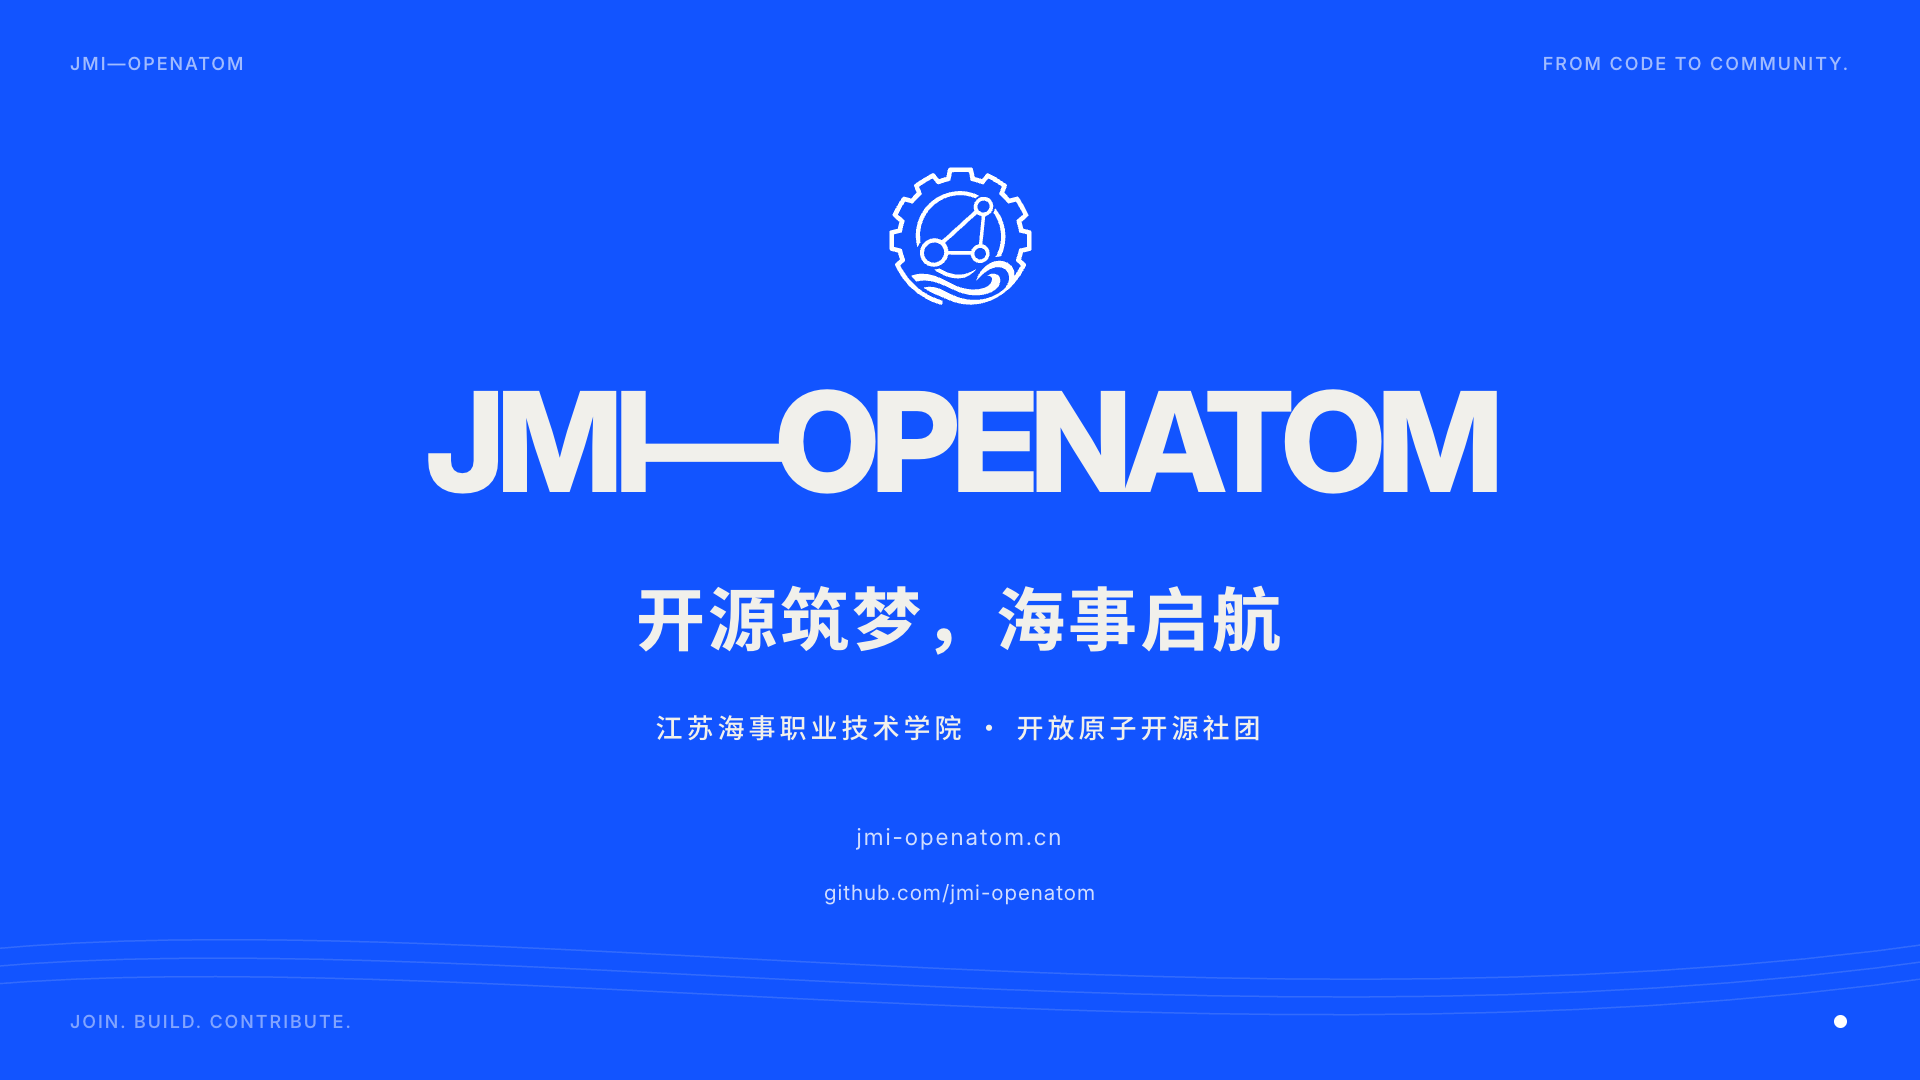
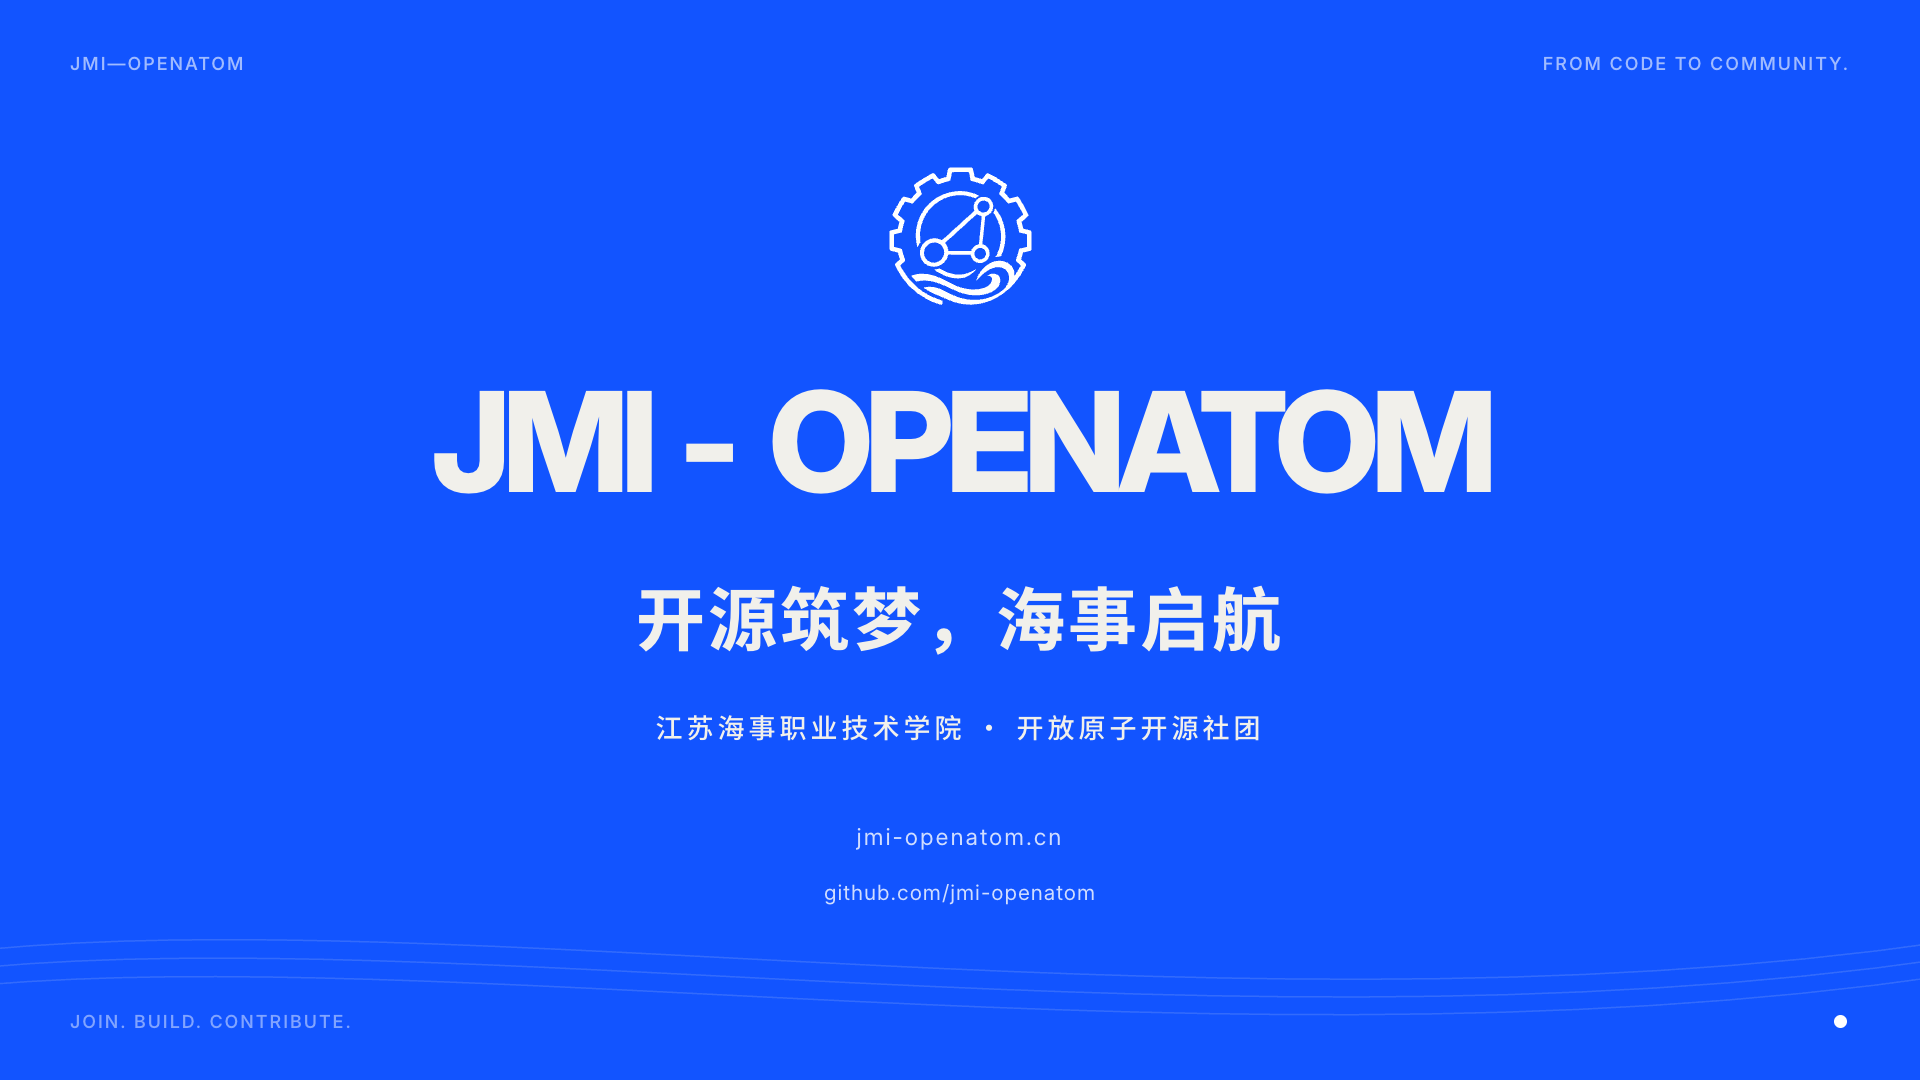
Separate outro brand title with a spaced hyphen

Changed region(s): [[0.5312, 0.3667, 0.7812, 0.4583], [0.2188, 0.3667, 0.5, 0.4583]]

diff --git a/src/brand/BrandOutro.tsx b/src/brand/BrandOutro.tsx
@@ -99,7 +99,10 @@ export const BrandOutro = ({ b }: { b: number }) => {
           position: "absolute",
           top: 357,
           width: "100%",
-          textAlign: "center",
+          display: "flex",
+          justifyContent: "center",
+          alignItems: "baseline",
+          gap: 28,
           color: PAPER,
           fontSize: 139,
           letterSpacing: -8,
@@ -108,7 +111,9 @@ export const BrandOutro = ({ b }: { b: number }) => {
           transform: `translateY(${(1 - titleIn) * 38}px)`,
         }}
       >
-        JMI—OPENATOM
+        <span>JMI</span>
+        <span style={{ letterSpacing: 0 }}>-</span>
+        <span>OPENATOM</span>
       </div>
 
       <div
